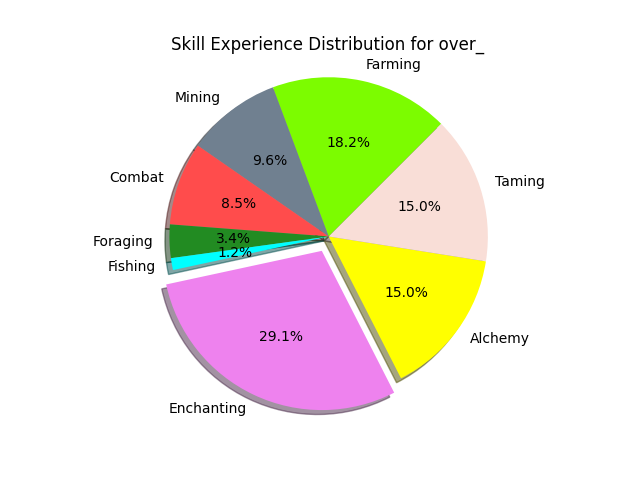
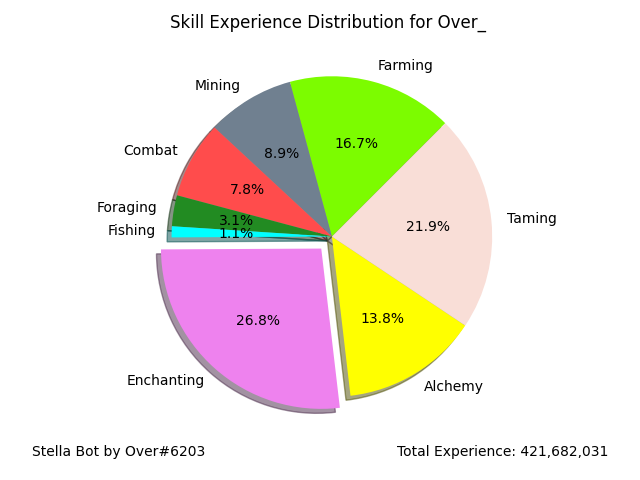
Added Player Command Menu (Semi Functional)
Added the working framework for player command,
Player command includes multiple tabs for users with in-game APIs enabled,
Features a player skill experience distribution.

diff --git a/helpers/player.py b/helpers/player.py
@@ -8,11 +8,15 @@ import numpy as np
 #Player Attributes: name, uuid, fruit, profile_id, player_data
 class Player:
     def __init__(self,name,profile=None):
-        API_KEY = key.API_KEY
-        self.name = name
+        self.API_KEY = key.API_KEY
         self.uuid = getUUID(name)
+        self.name = getName(self.uuid)
+        self.profile_list = []
         ##If a profile argument is given.
-        data = requests.get(f"https://api.hypixel.net/skyblock/profiles?key={API_KEY}&uuid={self.uuid}").json()
+        data = requests.get(f"https://api.hypixel.net/skyblock/profiles?key={self.API_KEY}&uuid={self.uuid}").json()
+        for entry in data["profiles"]:
+            self.profile_list.append(entry["cute_name"])
+
         if profile:
             for entry in data["profiles"]:
                 if profile.lower() == entry["cute_name"].lower():
@@ -38,17 +42,16 @@ class Player:
                 self.fruit = data["profiles"][0]["cute_name"]
                 self.profile_id = data["profiles"][0]["members"]["profile_id"]
                 self.player_data = data["profiles"][0]["members"][self.uuid]
-
-    def check_skills_API(self):
+        #API Check
         set1 = set(self.player_data)
         set2 = set(["experience_skill_combat","experience_skill_mining","experience_skill_alchemy","experience_skill_farming","experience_skill_enchanting","experience_skill_fishing","experience_skill_foraging"])
         if set1.intersection(set2):
-            return True
+            self.api_enabled = True
         else:
-            return False
+            self.api_enabled = False
 
     def get_player_summary(self):
-        if self.check_skills_API():
+        if self.api_enabled:
             try:
                 self.xp_farming = round(self.player_data["experience_skill_farming"])
                 self.lvl_farming = skill_xp_to_level(self.xp_farming, 60)
@@ -90,31 +93,86 @@ class Player:
                 self.xp_alchemy = 0
                 self.lvl_alchemy = 0
             try:
-                self.xp_taming = round(self.player_data["experience_skill_alchemy"])
+                self.xp_taming = round(self.player_data["experience_skill_taming"])
                 self.lvl_taming = skill_xp_to_level(self.xp_taming, 50)
             except KeyError:
                 self.xp_taming = 0
                 self.lvl_taming = 0
-            self.skill_lvl_list = [self.lvl_farming, self.lvl_mining, self.lvl_combat, self.lvl_foraging, self.lvl_fishing, self.lvl_enchanting, self.lvl_alchemy, self.lvl_taming]
             self.skill_xp_list = [self.xp_farming, self.xp_mining, self.xp_combat, self.xp_foraging, self.xp_fishing, self.xp_enchanting, self.xp_alchemy, self.xp_taming]
-            self.skill_average = sum(self.skill_lvl_list)/len(self.skill_lvl_list)
+            self.total_xp = sum(self.skill_xp_list)
+
+        else:
+            data = requests.get(f"https://api.hypixel.net/player?key={self.API_KEY}&uuid={self.uuid}").json()["player"]["achievements"]
+            try:
+                self.lvl_farming = highest_lvl(data["skyblock_harvester"],60)
+            except KeyError:
+                self.lvl_farming = 0
+            try:
+                self.lvl_mining = highest_lvl(data["skyblock_excavator"],60)
+            except KeyError:
+                self.lvl_mining = 0
+            try:
+                self.lvl_combat = highest_lvl(data["skyblock_combat"],50)
+            except KeyError:
+                self.lvl_combat = 0
+            try:
+                self.lvl_foraging = highest_lvl(data["skyblock_gatherer"],50)
+            except KeyError:
+                self.lvl_foraging = 0
+            try:
+                self.lvl_fishing = highest_lvl(data["skyblock_angler"],50)
+            except KeyError:
+                self.lvl_fishing = 0
+            try:
+                self.lvl_enchanting = highest_lvl(data["skyblock_augmentation"],60)
+            except KeyError:
+                self.lvl_enchanting = 0
+            try:
+                self.lvl_alchemy = highest_lvl(data["skyblock_concoctor"],50)
+            except KeyError:
+                self.lvl_alchemy = 0
+            try:
+                self.lvl_taming = highest_lvl(data["skyblock_domesticator"],50)
+            except KeyError:
+                self.lvl_taming = 0
+                
+        self.skill_lvl_list = [self.lvl_farming, self.lvl_mining, self.lvl_combat, self.lvl_foraging, self.lvl_fishing, self.lvl_enchanting, self.lvl_alchemy, self.lvl_taming]
+        self.skill_average = sum(self.skill_lvl_list)/len(self.skill_lvl_list)
 
     def get_player_xp_pie(self):
-        skill_labels = ["Farming","Mining","Combat","Foraging","Fishing","Enchanting","Alchemy","Taming"]
-        skill_colors = ["#7CFC00","#708090","#ff4c4c","#228B22","#00FFFF","#EE82EE","#FFFF00","#F9DED7"]
+        if self.api_enabled:
+            skill_labels = ["Farming","Mining","Combat","Foraging","Fishing","Enchanting","Alchemy","Taming"]
+            skill_colors = ["#7CFC00","#708090","#ff4c4c","#228B22","#00FFFF","#EE82EE","#FFFF00","#F9DED7"]
 
-        explode = np.zeros(len(self.skill_xp_list))
-        explode[np.array(self.skill_xp_list).argmax()] = 0.1
-        figure, ax = plt.subplots()
-        ax.pie(self.skill_xp_list, labels=skill_labels, colors=skill_colors, explode = explode, autopct='%1.1f%%', shadow=True, startangle=45)
-        ax.axis('equal')
-        plt.title(f"Skill Experience Distribution for {self.name}")
-        plt.savefig(f"data/pie/{self.name}.png")
-        return f"data/pie/{self.name}.png"
+            explode = np.zeros(len(self.skill_xp_list))
+            explode[np.array(self.skill_xp_list).argmax()] = 0.1
+            plt.pie(self.skill_xp_list, labels=skill_labels, colors=skill_colors, explode = explode, autopct='%1.1f%%', shadow=True, startangle=45)
+            plt.axis('equal')
+            plt.title(f"Skill Experience Distribution for {self.name}\n")
+            plt.figtext(0.95, 0.05, f"Total Experience: {'{:,}'.format(self.total_xp)}", horizontalalignment='right')
+            plt.figtext(0.05, 0.05, "Stella Bot by Over#6203", horizontalalignment='left')
+            plt.savefig(f"data/pie/{self.name}.png")
+            plt.close()
+            return f"data/pie/{self.name}.png"
+        else:
+            raise DisabledAPI
+
+    def get_skills_message(self):
+        self.skills_message = f"""
+        **Farming:** {self.lvl_farming}
+        **Mining:** {self.lvl_mining}
+        **Combat: ** {self.lvl_combat}
+        **Foraging: ** {self.lvl_foraging}
+        **Fishing: ** {self.lvl_fishing}
+        **Enchanting: ** {self.lvl_enchanting}
+        **Alchemy: ** {self.lvl_alchemy}
+        **Taming: ** {self.lvl_taming}
+        """
+        return
 
 
 #try:
-#    user = Player("Over_",profile="Banana")
+#    user = Player("Over_")
 #except ProfileNotFound:
 #    print("ProfileNotFound Error")
 #except PlayerNotFound:

diff --git a/cogs/player.py b/cogs/player.py
@@ -24,7 +24,7 @@ class Player_Commands(commands.Cog):
 
         except PlayerNotFound:
             embed=discord.Embed(title="Error ◆ PlayerNotFound", description=f"Player `{name}` not found.", color=0xdc6565)
-            embed.set_footer(text=f"Stella Bot by Over#6203 ")
+            embed.set_footer(text="Stella Bot by Over#6203 ")
             embed.set_author(name=ctx.author.display_name, icon_url=ctx.author.avatar_url)
         await ctx.reply(embed=embed)
 
@@ -42,16 +42,57 @@ class Player_Commands(commands.Cog):
             await ctx.reply("PlayerNotFound Error")
             return
 
-        user.get_player_summary()
+        def check(reaction, member): #For Tab Menu
+            return member == ctx.author
 
-        #Chart Tab
-        path = user.get_player_xp_pie()
-        file = discord.File(path, filename = "pie.png")
-        embed=discord.Embed(title=name, description="Pie Chart", color=0xdc6565)
-        embed.set_footer(text=f"Stella Bot by Over#6203 ")
-        embed.set_author(name=ctx.author.display_name, icon_url=ctx.author.avatar_url)
-        embed.set_image(url="attachment://pie.png")
-        await ctx.reply(embed=embed,file=file)
+        user.get_player_summary()
+        user.get_skills_message()
+        #Main Tab
+        player_tab=discord.Embed(title=user.name, description=f"Profile: {user.fruit}\nAll Profiles: {' '.join(map(str, user.profile_list))}", color=0xdc6565)
+        player_tab.set_author(name=ctx.author.display_name, icon_url=ctx.author.avatar_url)
+        player_tab.set_thumbnail(url=f"https://visage.surgeplay.com/bust/{user.uuid}")
+        if user.api_enabled:
+            player_tab.set_footer(text="Stella Bot by Over#6203")
+        else:
+            player_tab.set_footer(text="Stella Bot by Over#6203 ◆ Features May Not Be Available (Certain APIs are Disabled)")
+        player_tab.add_field(name=f"Skill Average: {user.skill_average}",value="\u200b",inline=False)
+        player_tab.add_field(name="Skills", value=user.skills_message, inline=True)
+        player_tab.add_field(name="\u200b",value="\u200b",inline=True)
+        if user.api_enabled:
+            #Add Slayers/Dungeons Message
+            pass
+
+        output = await ctx.reply(embed=player_tab)
+        await output.add_reaction("<:player:801091911166984232>")
+        if user.api_enabled: #Tabs only available to users with APIs enabled
+            await output.add_reaction("<:pie_chart:809912045410451456>")
+
+        reaction = None
+        while True:
+            if str(reaction) == "<:player:801091911166984232>":
+                await output.edit(embed=player_tab)
+            elif str(reaction) == "<:pie_chart:809912045410451456>" and user.api_enabled: #Pie Chart Tab
+                try:
+                    pie_chart_embed
+                except:
+                    path = user.get_player_xp_pie()
+                    channel = self.bot.get_channel(798985613793689621)
+                    special = await channel.send(file=discord.File(path, filename = "pie.png"))
+                    pie_chart_url = special.attachments[0].url
+                    pie_chart_embed=discord.Embed(title=user.name, description="Pie Chart", color=0xdc6565)
+                    pie_chart_embed.set_author(name=ctx.author.display_name, icon_url=ctx.author.avatar_url)
+                    pie_chart_embed.set_image(url=pie_chart_url)
+
+                await output.edit(embed=pie_chart_embed)
+
+            try:
+                reaction, member = await self.bot.wait_for("reaction_add", timeout=60.0, check=check)
+                await output.remove_reaction(reaction, member)
+            except Exception as exception: #For Debugging ~~ Remove Later
+                print(exception)
+                break
+        await output.clear_reactions()
+
 
 def setup(bot):
     bot.add_cog(Player_Commands(bot))

diff --git a/helpers/utils.py b/helpers/utils.py
@@ -72,3 +72,9 @@ def skill_xp_to_level(xp, max=50):
     if level > max:
         level = max
     return level
+
+def highest_lvl(skill, highest):
+    if skill > highest:
+        return highest
+    else:
+        return skill

diff --git a/helpers/errors.py b/helpers/errors.py
@@ -9,3 +9,6 @@ class ItemNotFound(Error):
 
 class ProfileNotFound(Error):
     pass
+
+class DisabledAPI(Error):
+    pass
